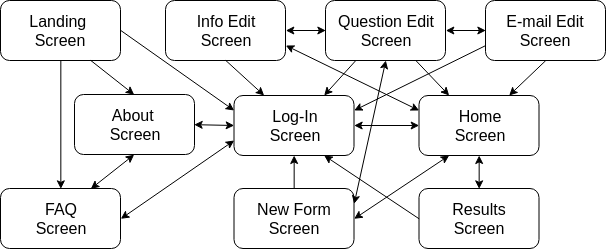
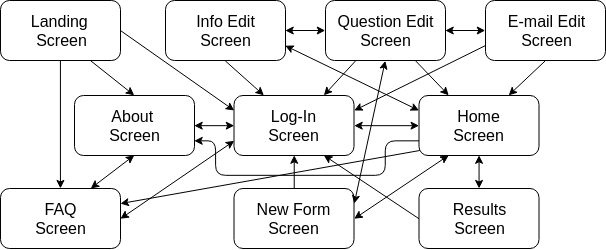
Updated navigation diagram

diff --git a/documents/uidd.tex b/documents/uidd.tex
@@ -83,7 +83,7 @@ For ease of use, the team made the designs simple for each screen. On the top-ri
 
 \section{User Interface Walkthrough}
 
-This section goes into more detail about the screens in the user interface and how an administrator or instructor navigates through them. Figure 2 shows the navigation diagram, which shows the paths that a user can take through the system's interface. The diagram also includes the names for all the screens in the UI.
+This section goes into more detail about the screens in the user interface and how an administrator or instructor navigates through them. Figure 2 shows the navigation diagram, which shows the paths that a user can take through the system's interface. The diagram also includes the names for all the screens in the UI. 
 
 \begin{center}
 \captionof{figure}{Navigation diagram of the user interface}
@@ -92,7 +92,7 @@ This section goes into more detail about the screens in the user interface and h
 \vspace{2mm}
 \end{center} 
 
-The first screen that the user sees upon starting up the system is the \textbf{Landing Screen}. Next, the user can view the \textbf{About Screen}, \textbf{FAQ Screen}, or  \textbf{Log-In Screen} and switch between the three. After entering a correct username and password on the log-in screen, the \textbf{Home Screen} appears. The user can then call up the \textbf{Info Edit Screen}, \textbf{New Form Screen}, or \textbf{Results Screen} from the home page. You must go to the new form screen to create a survey or the info edit screen to modify a survey. Next, the user proceeds to the \textbf{Question Edit Screen} and later the \textbf{E-mail Edit Screen}. The log-in screen and home screen can be accessed from any other screen except the landing, about, and FAQ screens.
+The first screen that the user sees upon starting up the system is the \textbf{Landing Screen}. Next, the user can view the \textbf{About Screen}, \textbf{FAQ Screen}, or  \textbf{Log-In Screen} and switch between the three. After entering a correct username and password on the log-in screen, the \textbf{Home Screen} appears. The user can then call up the \textbf{Info Edit Screen}, \textbf{New Form Screen}, or \textbf{Results Screen} from the home page or return to the about or FAQ screens. You must go to the new form screen to create a survey or the info edit screen to modify a survey. Next, the user proceeds to the \textbf{Question Edit Screen} and then the \textbf{E-mail Edit Screen}. The log-in screen and home screen can be accessed from any other screen except the landing, about, and FAQ screens.
 
 The next set of figures, Figures 3 to 12, consist of the wireframes for each screen in the evaluation system. These diagrams communicate the areas, menus, and buttons that are unique to a certain screen and what they do.
 
